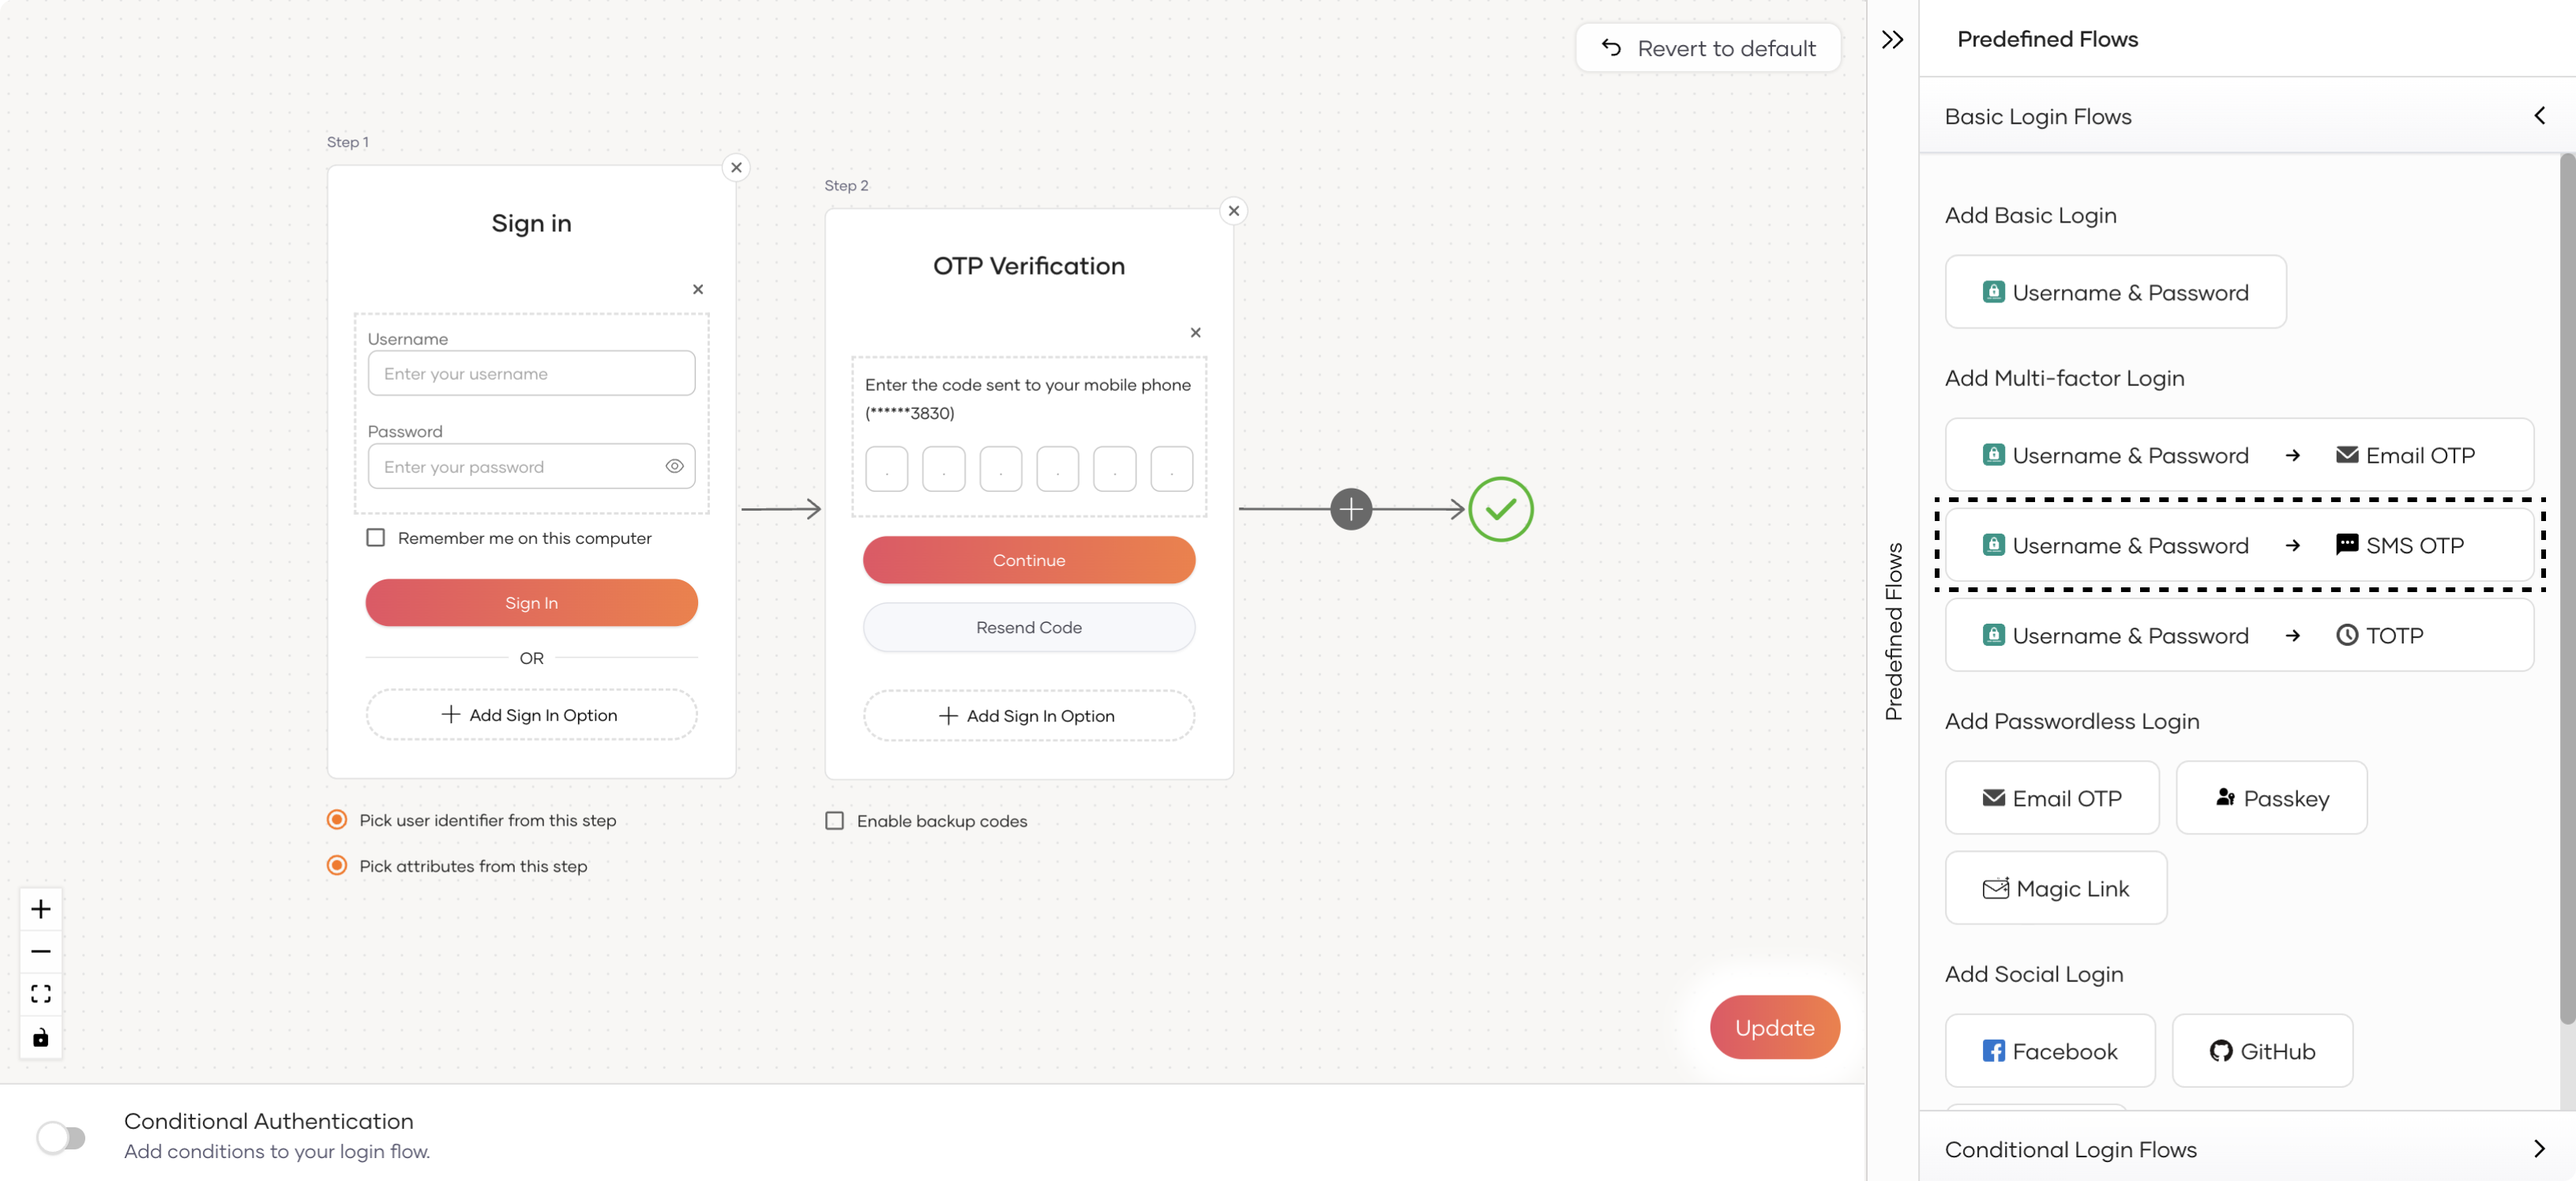
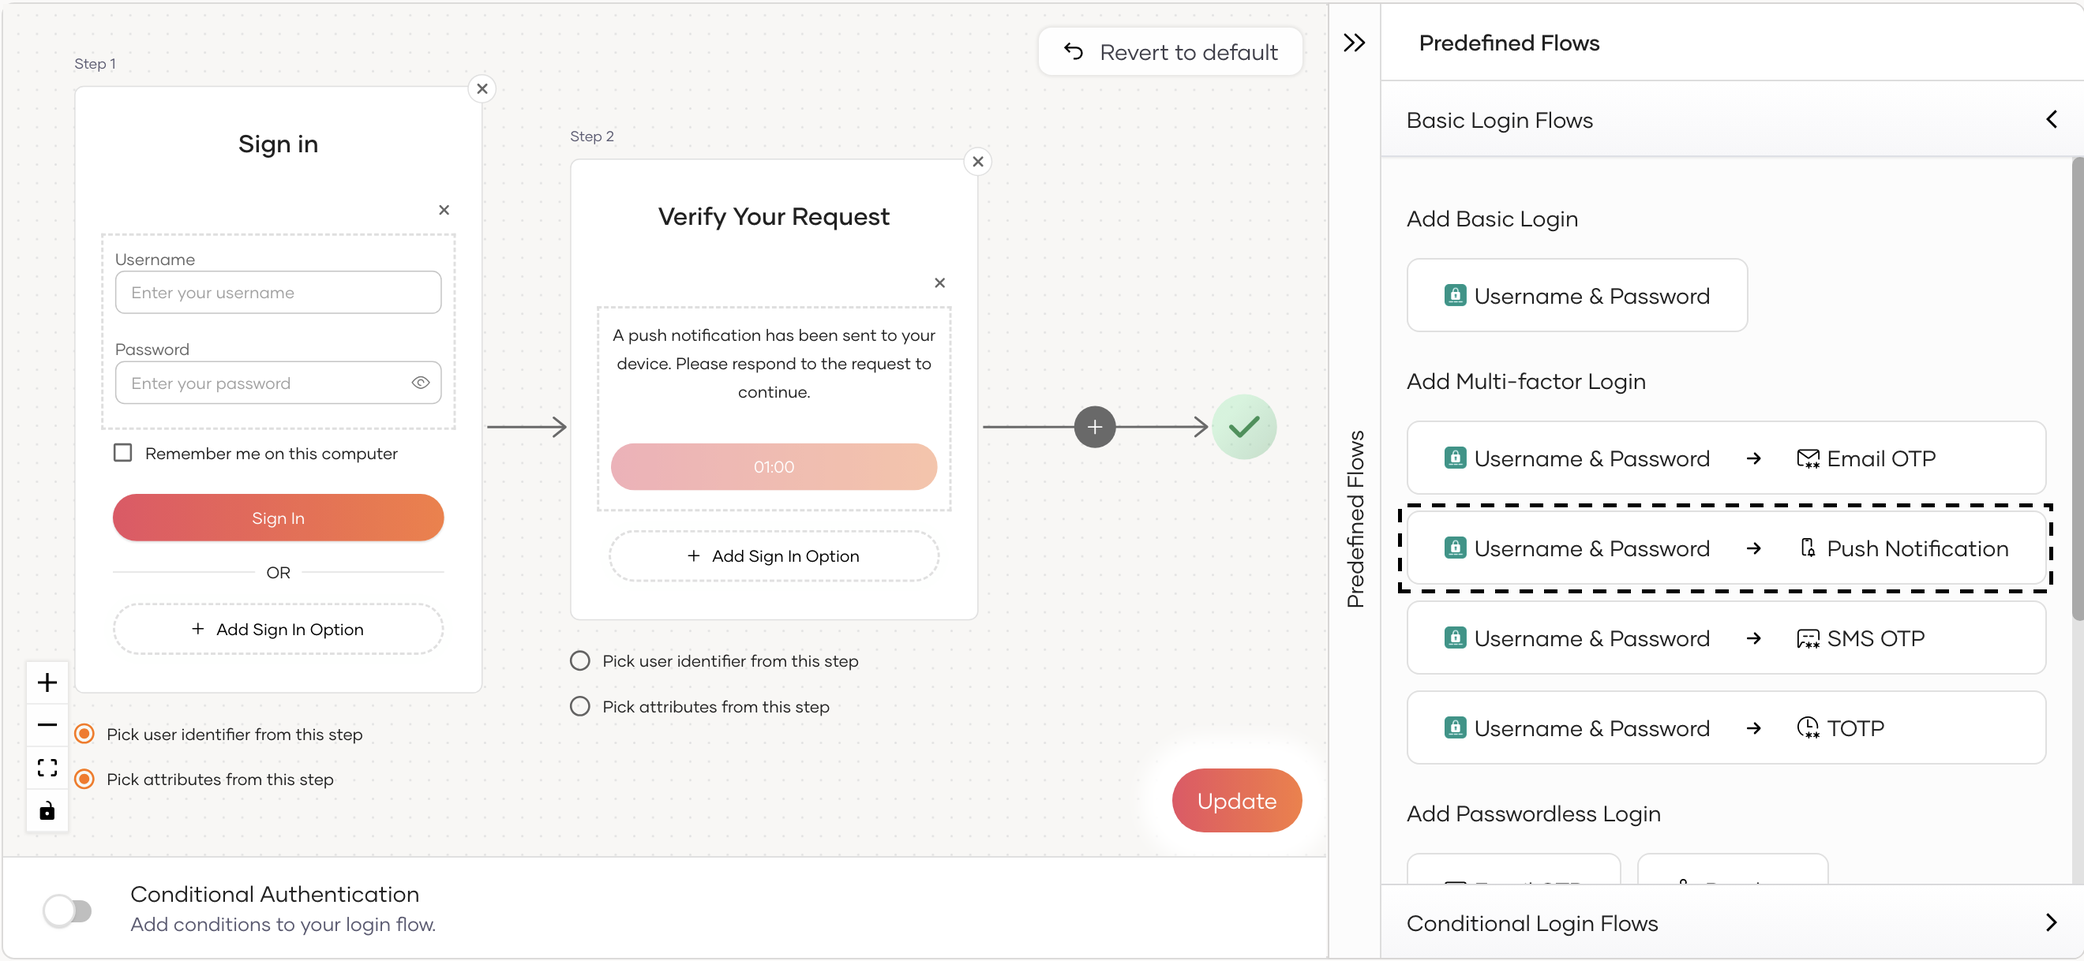
Add push notification authenticator fragment

diff --git a/features/admin.authentication-flow-builder.v1/components/nodes/sign-in-box-node/fragments/push-notification-fragment.tsx b/features/admin.authentication-flow-builder.v1/components/nodes/sign-in-box-node/fragments/push-notification-fragment.tsx
@@ -1,0 +1,96 @@
+/**
+ * Copyright (c) 2025, WSO2 LLC. (https://www.wso2.com).
+ *
+ * WSO2 LLC. licenses this file to you under the Apache License,
+ * Version 2.0 (the "License"); you may not use this file except
+ * in compliance with the License.
+ * You may obtain a copy of the License at
+ *
+ *     http://www.apache.org/licenses/LICENSE-2.0
+ *
+ * Unless required by applicable law or agreed to in writing,
+ * software distributed under the License is distributed on an
+ * "AS IS" BASIS, WITHOUT WARRANTIES OR CONDITIONS OF ANY
+ * KIND, either express or implied. See the License for the
+ * specific language governing permissions and limitations
+ * under the License.
+ */
+
+import Button from "@oxygen-ui/react/Button";
+import Typography from "@oxygen-ui/react/Typography";
+import { LocalAuthenticatorConstants } from "@wso2is/admin.connections.v1/constants/local-authenticator-constants";
+import { IdentifiableComponentInterface } from "@wso2is/core/models";
+import React, { MouseEvent, ReactElement } from "react";
+import { useTranslation } from "react-i18next";
+import BasicSignInOptionControls from "./basic-sign-in-option-controls";
+
+/**
+ * Proptypes for the Push Notification fragment component.
+ */
+export interface PushNotificationFragmentPropsInterface extends IdentifiableComponentInterface {
+    /**
+     * Callback to be fired when the option is removed.
+     * @param event - Click event.
+     * @param data - Data to be passed to the callback.
+     */
+    onOptionRemove: (
+        event: MouseEvent<HTMLButtonElement>,
+        data: {
+            toRemove: string;
+        }
+    ) => void;
+}
+
+/**
+ * Push Notification fragment login option component with input fields.
+ *
+ * @param props - Props injected to the component.
+ * @returns Push Notification fragment login option as a React component.
+ */
+const PushNotificationFragment = (props: PushNotificationFragmentPropsInterface): ReactElement => {
+    const {
+        onOptionRemove,
+        ["data-componentid"]: componentId
+    } = props;
+
+    const { t } = useTranslation();
+
+    return (
+        <div className="push-fragment" data-componentid={ componentId }>
+            <Typography align="center" className="oxygen-sign-in-header" variant="h4">
+                { t("authenticationFlow:nodes.push.header") }
+            </Typography>
+            <BasicSignInOptionControls
+                onOptionRemove={ (event: MouseEvent<HTMLButtonElement>) => {
+                    onOptionRemove(event, {
+                        toRemove: LocalAuthenticatorConstants.AUTHENTICATOR_NAMES.PUSH_AUTHENTICATOR_NAME
+                    });
+                } }
+                optionRemoveTooltipContent={ t("authenticationFlow:nodes.push.controls.optionRemoveTooltipContent") }
+            >
+                <Typography align="center" className="oxygen-sign-in-sub-header" variant="subtitle1">
+                    { t("authenticationFlow:nodes.push.form.fields.code.label") }
+                </Typography>
+                <Button
+                    color="primary"
+                    variant="contained"
+                    className="oxygen-sign-in-cta non-interactive resend-button"
+                    type="submit"
+                    fullWidth
+                    disabled
+                >
+                    { t("authenticationFlow:nodes.push.form.actions.primary") }
+                </Button>
+            </BasicSignInOptionControls>
+        </div>
+    );
+};
+
+/**
+ * Default props for the Push Notification fragment component.
+ */
+PushNotificationFragment.defaultProps = {
+    "data-componentid": "push-notification-fragment"
+};
+
+export default PushNotificationFragment;

diff --git a/features/admin.identity-providers.v1/components/forms/authenticators/push-authenticator-form.tsx b/features/admin.identity-providers.v1/components/forms/authenticators/push-authenticator-form.tsx
@@ -173,6 +173,7 @@ export const PushAuthenticatorForm: FunctionComponent<PushAuthenticatorFormProps
     // This can be used when `meta` support is there.
     const [ , setFormFields ] = useState<PushAuthenticatorFormFieldsInterface>(undefined);
     const [ initialValues, setInitialValues ] = useState<PushAuthenticatorFormInitialValuesInterface>(undefined);
+    const [ isReadOnly ] = useState<boolean>(isSubOrganization() || readOnly);
 
     /**
      * Flattens and resolved form initial values and field metadata.
@@ -387,7 +388,7 @@ export const PushAuthenticatorForm: FunctionComponent<PushAuthenticatorFormProps
                         Please check this checkbox to enable number challenge during authentication.
                     </Trans>)
                 }
-                readOnly={ readOnly }
+                readOnly={ isReadOnly }
                 width={ 16 }
                 data-testid={ `${ testId }-push-enable-number-challenge-checkbox` }
             />
@@ -408,7 +409,7 @@ export const PushAuthenticatorForm: FunctionComponent<PushAuthenticatorFormProps
                         Please check this checkbox to enable progressive enrollment.
                     </Trans>)
                 }
-                readOnly={ readOnly }
+                readOnly={ isReadOnly }
                 width={ 16 }
                 data-testid={ `${ testId }-push-enable-progressive-enrollment-checkbox` }
             />
@@ -436,7 +437,7 @@ export const PushAuthenticatorForm: FunctionComponent<PushAuthenticatorFormProps
                     </Trans>)
                 }
                 required={ true }
-                readOnly={ readOnly }
+                readOnly={ isReadOnly }
                 min={
                     ConnectionUIConstants
                         .PUSH_AUTHENTICATOR_SETTINGS_FORM_FIELD_CONSTRAINTS.RESEND_INTERVAL_MIN_VALUE
@@ -485,7 +486,7 @@ export const PushAuthenticatorForm: FunctionComponent<PushAuthenticatorFormProps
                     </Trans>)
                 }
                 required={ true }
-                readOnly={ readOnly }
+                readOnly={ isReadOnly }
                 min={
                     ConnectionUIConstants
                         .PUSH_AUTHENTICATOR_SETTINGS_FORM_FIELD_CONSTRAINTS.ALLOWED_RESEND_ATTEMPT_COUNT_MIN_VALUE
@@ -519,7 +520,7 @@ export const PushAuthenticatorForm: FunctionComponent<PushAuthenticatorFormProps
                 disabled={ isSubmitting }
                 loading={ isSubmitting }
                 label={ t("common:update") }
-                hidden={ readOnly }
+                hidden={ isReadOnly }
             />
         </Form>
     );

diff --git a/features/admin.authentication-flow-builder.v1/components/nodes/sign-in-box-node/sign-in-box-node.tsx b/features/admin.authentication-flow-builder.v1/components/nodes/sign-in-box-node/sign-in-box-node.tsx
@@ -59,6 +59,7 @@ import ActiveSessionsLimitFragment from "./fragments/active-sessions-limit-fragm
 import BasicAuthFragment from "./fragments/basic-auth-fragment";
 import EmailOTPFragment from "./fragments/email-otp-fragment";
 import IdentifierFirstFragment from "./fragments/identifier-first-fragment";
+import PushNotificationFragment from "./fragments/push-notification-fragment";
 import SMSOTPFragment from "./fragments/sms-otp-fragment";
 import TOTPFragment from "./fragments/totp-fragment";
 import useAuthenticationFlow from "../../../hooks/use-authentication-flow";
@@ -256,6 +257,9 @@ export const SignInBoxNode: FunctionComponent<SignInBoxNodePropsInterface> = (
                 } else if (option.authenticator === LocalAuthenticatorConstants.AUTHENTICATOR_NAMES
                     .SMS_OTP_AUTHENTICATOR_NAME) {
                     basicSignInOption = LocalAuthenticatorConstants.AUTHENTICATOR_NAMES.SMS_OTP_AUTHENTICATOR_NAME;
+                } else if (option.authenticator === LocalAuthenticatorConstants.AUTHENTICATOR_NAMES
+                    .PUSH_AUTHENTICATOR_NAME) {
+                    basicSignInOption = LocalAuthenticatorConstants.AUTHENTICATOR_NAMES.PUSH_AUTHENTICATOR_NAME;
                 }
             }
         });
@@ -456,6 +460,19 @@ export const SignInBoxNode: FunctionComponent<SignInBoxNodePropsInterface> = (
                         } }
                     />
                 </>
+            );
+        }
+
+        if (activeBasicSignInOption === LocalAuthenticatorConstants.AUTHENTICATOR_NAMES.PUSH_AUTHENTICATOR_NAME) {
+            return (
+                <PushNotificationFragment
+                    onOptionRemove={ (e: MouseEvent<HTMLButtonElement>, { toRemove }: { toRemove: string }) => {
+                        onSignInOptionRemove(e, {
+                            stepIndex,
+                            toRemove
+                        });
+                    } }
+                />
             );
         }
 

diff --git a/modules/i18n/src/translations/en-US/portals/authentication-flow.ts b/modules/i18n/src/translations/en-US/portals/authentication-flow.ts
@@ -109,6 +109,23 @@ export const authenticationFlow: AuthenticationFlowNS = {
             },
             header: "Sign in"
         },
+        push: {
+            controls: {
+                optionRemoveTooltipContent: "Remove"
+            },
+            form: {
+                actions: {
+                    primary: "01:00"
+                },
+                fields: {
+                    code: {
+                        label: "A push notification has been sent to your device. Please respond to the request to continue.",
+                        placeholder: ""
+                    }
+                }
+            },
+            header: "Verify Your Request"
+        },
         signIn: {
             controls: {
                 optionRemoveTooltipContent: "Remove",

diff --git a/modules/i18n/src/models/namespaces/authentication-flow-ns.ts b/modules/i18n/src/models/namespaces/authentication-flow-ns.ts
@@ -100,6 +100,23 @@ export interface AuthenticationFlowNS {
             };
             header: string;
         };
+        push: {
+            controls: {
+                optionRemoveTooltipContent: string;
+            };
+            form: {
+                actions: {
+                    primary: string;
+                };
+                fields: {
+                    code: {
+                        label: string;
+                        placeholder: string;
+                    };
+                };
+            };
+            header: string;
+        };
         signIn: {
             controls: {
                 optionRemoveTooltipContent: string;

diff --git a/features/admin.connections.v1/components/authenticators/push/quick-start.tsx b/features/admin.connections.v1/components/authenticators/push/quick-start.tsx
@@ -94,7 +94,7 @@ const PushAuthQuickStart: FunctionComponent<PushAuthQuickStartPropsInterface> = 
                                 ".content" }
                         >
                             Go to <strong>Login Flow</strong> tab and click on the <strong>Username & Password + Push
-                            </strong> option from the Multi-factor login section to configure a basic
+                            Notifications </strong> option from the Multi-factor login section to configure a basic
                             Push Authentication flow.
                         </Trans>
                     </Text>

diff --git a/features/admin.authentication-flow-builder.v1/components/nodes/sign-in-box-node/sign-in-box-node.scss b/features/admin.authentication-flow-builder.v1/components/nodes/sign-in-box-node/sign-in-box-node.scss
@@ -225,6 +225,12 @@
     }
 }
 
+.push-fragment {
+    .resend-button {
+        color: white;
+    }
+}
+
 .active-sessions-limit-fragment {
     table, th, td {
         border: 1px solid var(--oxygen-palette-divider);
